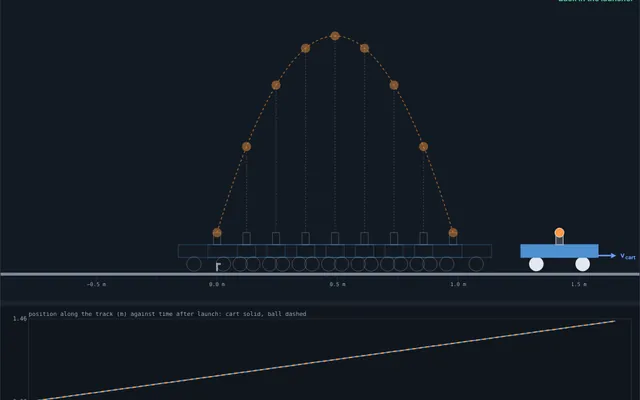
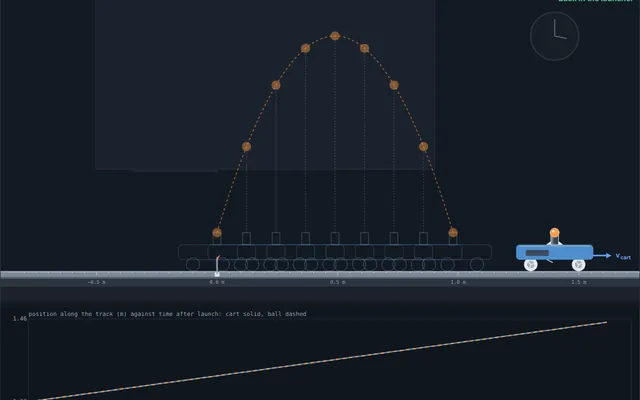
Cart launch: scenery pass (lab bench, track details, cart and ball shading)
Claude-Session: https://claude.ai/code/session_01Ed2BcirBdsGia7rutWh1uF

Changed region(s): [[0.0, 0.57, 1.0, 0.72]]

diff --git a/demos/cart-launch.html b/demos/cart-launch.html
@@ -60,9 +60,9 @@ body { margin: 0; }
   --field: #dfe6ef; --equi: #e2b350; --accent: #69a0ff; --on-charge: #0d1218; color-scheme: dark;
 }
 
-:root { --cart: #2f6fb0; --cartTop: #d7dee7; --ball: #e07a1f; --track: #8a95a3; --wall: #eef2f6; --floor: #d9dfe6; --vx: #2b60b5; --vy: #1f8a5b; --v: #7b3fb8; --g: #c23f2c; }
-@media (prefers-color-scheme: dark) { :root:not([data-theme="light"]) { --cart: #4f8fd0; --cartTop: #3a4554; --ball: #ff9a40; --track: #7d8898; --wall: #131a23; --floor: #1b232e; --vx: #69a0ff; --vy: #4cc98e; --v: #b98af0; --g: #ff7660; } }
-:root[data-theme="dark"] { --cart: #4f8fd0; --cartTop: #3a4554; --ball: #ff9a40; --track: #7d8898; --wall: #131a23; --floor: #1b232e; --vx: #69a0ff; --vy: #4cc98e; --v: #b98af0; --g: #ff7660; }
+:root { --cart: #2f6fb0; --cartTop: #d7dee7; --ball: #e07a1f; --track: #8a95a3; --trackHi: #c9d0d8; --bench: #4a525c; --benchDark: #2f353d; --board: #f6f8fa; --boardFrame: #c3cbd4; --wall: #eef2f6; --floor: #d9dfe6; --vx: #2b60b5; --vy: #1f8a5b; --v: #7b3fb8; --g: #c23f2c; }
+@media (prefers-color-scheme: dark) { :root:not([data-theme="light"]) { --cart: #4f8fd0; --cartTop: #3a4554; --ball: #ff9a40; --track: #7d8898; --trackHi: #a3adba; --bench: #2c343e; --benchDark: #1c222a; --board: #171e28; --boardFrame: #2c3644; --wall: #131a23; --floor: #1b232e; --vx: #69a0ff; --vy: #4cc98e; --v: #b98af0; --g: #ff7660; } }
+:root[data-theme="dark"] { --cart: #4f8fd0; --cartTop: #3a4554; --ball: #ff9a40; --track: #7d8898; --trackHi: #a3adba; --bench: #2c343e; --benchDark: #1c222a; --board: #171e28; --boardFrame: #2c3644; --wall: #131a23; --floor: #1b232e; --vx: #69a0ff; --vy: #4cc98e; --v: #b98af0; --g: #ff7660; }
 :root[data-projector="on"] { font-size: 125%; }
 html, body { height: 100%; }
 body { background: var(--bg); color: var(--ink); font-family: var(--font-ui); font-size: 15px; line-height: 1.45; }
@@ -269,7 +269,7 @@ table.rows button { font: inherit; background: none; border: 0; color: var(--mut
   let W = 0, Hh = 0, dpr = 1, T = null;
   function tokens() { const cs = getComputedStyle(document.documentElement), g = (n) => cs.getPropertyValue(n).trim();
     T = { canvas: g('--canvas'), ink: g('--ink'), muted: g('--muted'), line: g('--line'), grid: g('--grid'), gridStrong: g('--grid-strong'), accent: g('--accent'),
-      cart: g('--cart'), cartTop: g('--cartTop'), ball: g('--ball'), track: g('--track'), wall: g('--wall'), floor: g('--floor'), vx: g('--vx'), vy: g('--vy'), v: g('--v'), g: g('--g'),
+      cart: g('--cart'), cartTop: g('--cartTop'), ball: g('--ball'), track: g('--track'), trackHi: g('--trackHi'), bench: g('--bench'), benchDark: g('--benchDark'), board: g('--board'), boardFrame: g('--boardFrame'), wall: g('--wall'), floor: g('--floor'), vx: g('--vx'), vy: g('--vy'), v: g('--v'), g: g('--g'),
       mono: g('--font-mono') || 'monospace', ui: g('--font-ui') || 'sans-serif' }; }
   const ps = () => (document.documentElement.getAttribute('data-projector') === 'on' ? 1.3 : 1);
   const f = (v, d = 2) => (!isFinite(v) ? '—' : (Math.abs(v) < 0.5 * 10 ** -d ? 0 : v).toFixed(d).replace('-', '−'));
@@ -370,25 +370,68 @@ table.rows button { font: inherit; background: none; border: 0; color: var(--mut
     const availW = W - 32 * p, availH = sceneBot - sceneTop, sc = Math.min(availW / bw, availH / bh, 420 * p);
     const X0 = 16 * p + (availW - bw * sc) / 2 - Math.min(...xs) * sc, Y0 = sceneTop + (availH - bh * sc) / 2 + Math.max(...ys) * sc;
     const SX = (s, n) => X0 + wx(s, n) * sc, SY = (s, n) => Y0 - wy(s, n) * sc;
-    // background: wall and floor
-    ctx.fillStyle = T.canvas; ctx.fillRect(0, 0, W, Hh); ctx.fillStyle = T.wall; ctx.fillRect(0, 0, W, sceneBot + 10 * p);
-    const floorY = Math.max(SY(sMin, -MOUTH - 0.05), SY(sMax, -MOUTH - 0.05)) + 30 * p;
-    ctx.fillStyle = T.floor; ctx.fillRect(0, Math.min(floorY, sceneBot + 10 * p), W, sceneBot + 10 * p - Math.min(floorY, sceneBot + 10 * p));
-    // metre marks on the wall (move with the ground, so in the cart view they slide past)
-    ctx.strokeStyle = T.gridStrong; ctx.fillStyle = T.muted; ctx.font = `${9 * p}px ${T.mono}`; ctx.lineWidth = 1; ctx.textAlign = 'center'; ctx.textBaseline = 'top';
-    const step = sc > 160 * p ? 0.25 : 0.5;
-    for (let s = Math.ceil((sMin + (cam ? off : 0)) / step) * step; s <= sMax + (cam ? off : 0) + 1e-9; s += step) {
-      const x = SX(s, -MOUTH - 0.02), y = SY(s, -MOUTH - 0.02);
-      ctx.beginPath(); ctx.moveTo(x, y); ctx.lineTo(x + sn * 8 * p, y + cs * 8 * p); ctx.stroke();
-      if (Math.abs(s / 0.5 - Math.round(s / 0.5)) < 1e-6) ctx.fillText(`${f(s, 1)} m`, x + sn * 18 * p, y + cs * 10 * p);
+    // ---- the room, drawn in ground coordinates so it slides past in the cart view ----
+    // absolute ground coordinates (x right, y up, metres; the launch point's mouth is the origin) to the screen
+    const offX = cam ? off * cs : 0, offY = cam ? -off * sn : 0, GX = (x) => X0 + (x - offX) * sc, GY = (y) => Y0 - (y - offY) * sc;
+    const ax = (s, n) => s * cs + n * sn, ay = (s, n) => -s * sn + n * cs;   // track point (absolute s) to ground x, y
+    const RAIL = 0.025, trA = cartAt(pp, -S.tPre).s - HALF - 0.3, trB = Math.max(cartAt(pp, tEnd()).s, ballAt(pp, tEnd()).s) + HALF + 0.3;
+    const benchY = Math.min(ay(trA, -MOUTH - RAIL), ay(trB, -MOUTH - RAIL)) - (ph > 0 ? 0.03 : 0), floorYm = benchY - 0.9;
+    const bxA = Math.min(ax(trA, -MOUTH), ax(trB, -MOUTH)) - 0.35, bxB = Math.max(ax(trA, -MOUTH), ax(trB, -MOUTH)) + 0.35;
+    ctx.fillStyle = T.canvas; ctx.fillRect(0, 0, W, Hh);
+    ctx.save(); ctx.beginPath(); ctx.rect(0, 0, W, sceneBot + 10 * p); ctx.clip();
+    ctx.fillStyle = T.wall; ctx.fillRect(0, 0, W, sceneBot + 10 * p);
+    // wall panels, a whiteboard behind the bench and a clock
+    const xL = offX + (0 - X0) / sc, xR = offX + (W - X0) / sc;
+    ctx.strokeStyle = T.grid; ctx.lineWidth = 1;
+    for (let x = Math.floor(xL / 1.2) * 1.2; x <= xR; x += 1.2) { ctx.beginPath(); ctx.moveTo(GX(x), 0); ctx.lineTo(GX(x), GY(floorYm)); ctx.stroke(); }
+    // a faint whiteboard and a clock on the wall, repeating every 4.8 m (kept pale so the ball's path stands out)
+    for (let k = Math.floor(xL / 4.8) - 1; k <= Math.ceil(xR / 4.8) + 1; k++) {
+      const x0 = k * 4.8 - 0.5, x1 = x0 + 1.4, y0 = benchY + 0.45, y1 = benchY + 1.25;
+      ctx.globalAlpha = 0.55;
+      ctx.fillStyle = T.boardFrame; ctx.fillRect(GX(x0) - 2 * p, GY(y1) - 2 * p, GX(x1) - GX(x0) + 4 * p, GY(y0) - GY(y1) + 4 * p);
+      ctx.fillStyle = T.board; ctx.fillRect(GX(x0), GY(y1), GX(x1) - GX(x0), GY(y0) - GY(y1));
+      ctx.fillStyle = T.boardFrame; ctx.fillRect(GX(x0 + 0.15), GY(y0) + 2 * p, GX(x0 + 0.5) - GX(x0 + 0.15), 3 * p);
+      ctx.globalAlpha = 1; const cx = x1 + 0.5, cy = benchY + 1.0, cr = 0.1;
+      ctx.fillStyle = T.board; ctx.strokeStyle = T.boardFrame; ctx.lineWidth = 2 * p; ctx.beginPath(); ctx.arc(GX(cx), GY(cy), cr * sc, 0, 7); ctx.fill(); ctx.stroke();
+      ctx.strokeStyle = T.muted; ctx.globalAlpha = 0.7; ctx.lineWidth = 1.4 * p; ctx.beginPath(); ctx.moveTo(GX(cx), GY(cy)); ctx.lineTo(GX(cx), GY(cy + cr * 0.7)); ctx.moveTo(GX(cx), GY(cy)); ctx.lineTo(GX(cx + cr * 0.5), GY(cy - cr * 0.1)); ctx.stroke(); ctx.globalAlpha = 1;
     }
-    // track (in the cart view it extends across the whole window)
-    const ta = (cam ? off : 0) + sMin - 2, tb = (cam ? off : 0) + sMax + 2;
-    ctx.strokeStyle = T.track; ctx.lineWidth = 5 * p; ctx.lineCap = 'butt'; ctx.beginPath(); ctx.moveTo(SX(ta, -MOUTH - 0.012), SY(ta, -MOUTH - 0.012)); ctx.lineTo(SX(tb, -MOUTH - 0.012), SY(tb, -MOUTH - 0.012)); ctx.stroke();
-    // incline stand: a post under the high end
-    if (ph > 0) { const sTop = (cam ? off : 0) + sMin + 0.1, x = SX(sTop, -MOUTH - 0.02), y = SY(sTop, -MOUTH - 0.02); ctx.fillStyle = T.track; ctx.fillRect(x - 3 * p, y, 6 * p, Math.max(0, floorY - y)); ctx.fillStyle = T.muted; ctx.font = `${10 * p}px ${T.ui}`; ctx.textAlign = 'left'; ctx.textBaseline = 'bottom'; ctx.fillText(`incline ${S.phiDeg}°, no friction`, x + 8 * p, Math.min(floorY, sceneBot) - 6 * p); }
-    // the trigger post at s = 0 that fires the launcher
-    { const x = SX(0, -MOUTH), y = SY(0, -MOUTH); ctx.save(); ctx.translate(x, y); ctx.rotate(ph); ctx.fillStyle = T.muted; ctx.fillRect(-1.5 * p, -14 * p, 3 * p, 14 * p); ctx.fillRect(-1.5 * p, -14 * p, 8 * p, 3 * p); ctx.restore(); }
+    // floor and baseboard
+    ctx.fillStyle = T.floor; ctx.fillRect(0, GY(floorYm), W, Math.max(0, sceneBot + 10 * p - GY(floorYm)));
+    ctx.fillStyle = T.gridStrong; ctx.fillRect(0, GY(floorYm) - 4 * p, W, 4 * p);
+    // the lab bench: top slab, apron and legs
+    const slab = 0.04;
+    ctx.fillStyle = T.benchDark; for (const lx of [bxA + 0.08, bxB - 0.12]) ctx.fillRect(GX(lx), GY(benchY - slab), 0.04 * sc, GY(floorYm) - GY(benchY - slab));
+    ctx.fillStyle = T.benchDark; ctx.fillRect(GX(bxA + 0.04), GY(benchY - slab), GX(bxB - 0.04) - GX(bxA + 0.04), 0.06 * sc);
+    ctx.fillStyle = T.bench; ctx.fillRect(GX(bxA), GY(benchY), GX(bxB) - GX(bxA), slab * sc);
+    ctx.fillStyle = T.trackHi; ctx.globalAlpha = 0.35; ctx.fillRect(GX(bxA), GY(benchY), GX(bxB) - GX(bxA), Math.max(1, 0.006 * sc)); ctx.globalAlpha = 1;
+    // supports: on the level the track sits on two low feet; on the incline the high end stands on a rod with a clamp
+    ctx.fillStyle = T.track;
+    for (const sF of [trA + 0.12, trB - 0.12]) { const x = ax(sF, -MOUTH - RAIL), y = ay(sF, -MOUTH - RAIL); ctx.fillRect(GX(x) - 3 * p, GY(y), 6 * p, Math.max(2 * p, GY(benchY) - GY(y))); }
+    if (ph > 0) {
+      const xh = ax(trA + 0.12, -MOUTH - RAIL), yh = ay(trA + 0.12, -MOUTH - RAIL);
+      ctx.fillStyle = T.benchDark; ctx.fillRect(GX(xh) - 14 * p, GY(benchY) - 5 * p, 28 * p, 5 * p);   // stand base
+      ctx.fillStyle = T.ink; ctx.fillRect(GX(xh) - 6 * p, GY(yh) - 2 * p, 12 * p, 7 * p);              // clamp
+      ctx.fillStyle = T.muted; ctx.font = `${10 * p}px ${T.ui}`; ctx.textAlign = 'left'; ctx.textBaseline = 'bottom';
+      ctx.fillText(`incline ${S.phiDeg}°, no friction`, GX(xh) + 18 * p, Math.min(GY(benchY) - 8 * p, sceneBot));
+    }
+    // the track: aluminium beam with a printed scale on its side, rubber end stops
+    const tp = (sv, n) => [SX(sv, n), SY(sv, n)];
+    const quad = (a, b, n0, n1, col) => { ctx.fillStyle = col; ctx.beginPath(); for (const [sv, n] of [[a, n0], [b, n0], [b, n1], [a, n1]]) { const [x, y] = tp(sv, n); ctx.lineTo(x, y); } ctx.closePath(); ctx.fill(); };
+    quad(trA, trB, -MOUTH, -MOUTH - RAIL, T.track);
+    quad(trA, trB, -MOUTH, -MOUTH - Math.max(0.005, 1.5 * p / sc), T.trackHi);
+    for (const [a, b] of [[trA - 0.03, trA], [trB, trB + 0.03]]) quad(a, b, -MOUTH + 0.035, -MOUTH - RAIL, T.ink);
+    ctx.strokeStyle = T.ink; ctx.fillStyle = T.ink; ctx.lineWidth = 1; ctx.font = `${8.5 * p}px ${T.mono}`; ctx.textAlign = 'center'; ctx.textBaseline = 'middle';
+    const tick = sc > 300 * p ? 0.05 : 0.1;
+    for (let k = Math.ceil(trA / tick); k * tick <= trB; k++) {
+      const sv = k * tick, big = Math.abs(sv / 0.5 - Math.round(sv / 0.5)) < 1e-6, [x0, y0] = tp(sv, -MOUTH - 0.004), [x1, y1] = tp(sv, -MOUTH - (big ? 0.016 : 0.009));
+      ctx.globalAlpha = 0.7; ctx.beginPath(); ctx.moveTo(x0, y0); ctx.lineTo(x1, y1); ctx.stroke(); ctx.globalAlpha = 1;
+      if (big) { const [xl, yl] = tp(sv, -MOUTH - RAIL - 0.012); ctx.save(); ctx.translate(xl + sn * 4 * p, yl + cs * 4 * p); ctx.rotate(ph); ctx.fillStyle = T.muted; ctx.fillText(`${f(sv, 1)} m`, 0, 0); ctx.restore(); }
+    }
+    // the trigger: a rod clamped to the track at s = 0 with a flag the cart's lever hits
+    { const [x, y] = tp(0, -MOUTH - RAIL / 2); ctx.save(); ctx.translate(x, y); ctx.rotate(ph);
+      ctx.fillStyle = T.ink; ctx.fillRect(-4 * p, -3 * p, 8 * p, 7 * p); ctx.fillStyle = T.muted; const hR = 0.07 * sc; ctx.fillRect(-1.2 * p, -hR, 2.4 * p, hR);
+      const fired = t >= 0; ctx.fillStyle = T.g; ctx.beginPath(); ctx.moveTo(0, -hR); ctx.lineTo(fired ? 6 * p : -9 * p, -hR + (fired ? -5 * p : 3 * p)); ctx.lineTo(0, -hR + 6 * p); ctx.closePath(); ctx.fill(); ctx.restore(); }
+    ctx.restore();
     // path of the ball (relative to the chosen frame)
     const showP = $('cbP').checked && t > 0, showS = $('cbS').checked && t > 0;
     if (showP) {
@@ -409,9 +452,20 @@ table.rows button { font: inherit; background: none; border: 0; color: var(--mut
       }
     }
     // the cart and the ball now
-    drawCart(SX(cNow.s, -MOUTH), SY(cNow.s, -MOUTH), sc, ph, false);
+    drawCart(SX(cNow.s, -MOUTH), SY(cNow.s, -MOUTH), sc, ph, false, cNow.s);
     const bx = SX(bPos.s, bPos.n), by = SY(bPos.s, bPos.n), br = Math.max(5 * p, 0.019 * sc);
-    ctx.fillStyle = T.ball; ctx.beginPath(); ctx.arc(bx, by, br, 0, 7); ctx.fill(); ctx.strokeStyle = T.ink; ctx.lineWidth = 1; ctx.stroke();
+    if (t > 0 && bNow.free) {   // shadow straight below the ball on the track (light from above the track): it stays on the launcher
+      const [sx0, sy0] = [SX(bPos.s, -MOUTH), SY(bPos.s, -MOUTH)], hgt = Math.max(0, bPos.n + MOUTH), al = Math.max(0.08, 0.35 - 0.25 * hgt);
+      ctx.save(); ctx.translate(sx0, sy0); ctx.rotate(ph); ctx.globalAlpha = al; ctx.fillStyle = T.ink; ctx.beginPath(); ctx.ellipse(0, -1, br * (1 + hgt), br * 0.35, 0, 0, 7); ctx.fill(); ctx.restore();
+    }
+    if (t >= 0 && t < 0.18 && !reduce) {   // a puff at the mouth as the launcher fires
+      const [mx, my] = [SX(cNow.s, 0), SY(cNow.s, 0)], q = t / 0.18; ctx.save(); ctx.translate(mx, my); ctx.rotate(ph); ctx.globalAlpha = 1 - q; ctx.strokeStyle = T.muted; ctx.lineWidth = 1.5 * p;
+      for (const a of [-0.9, -0.45, 0.45, 0.9]) { ctx.beginPath(); ctx.moveTo(Math.sin(a) * (6 + 10 * q) * p, -Math.cos(a) * (6 + 10 * q) * p); ctx.lineTo(Math.sin(a) * (12 + 14 * q) * p, -Math.cos(a) * (12 + 14 * q) * p); ctx.stroke(); }
+      ctx.restore();
+    }
+    const grd = ctx.createRadialGradient(bx - br * 0.35, by - br * 0.35, br * 0.1, bx, by, br);
+    grd.addColorStop(0, '#fff3e0'); grd.addColorStop(0.35, T.ball); grd.addColorStop(1, T.ball);
+    ctx.fillStyle = grd; ctx.beginPath(); ctx.arc(bx, by, br, 0, 7); ctx.fill(); ctx.strokeStyle = T.ink; ctx.globalAlpha = 0.6; ctx.lineWidth = 1; ctx.stroke(); ctx.globalAlpha = 1;
     // vectors (screen px per m/s and per m/s²); in the cart view velocities are relative to the cart
     const kv = 26 * p, ka = 6 * p, dirS = [cs, sn], dirN = [sn, -cs];   // screen directions of +s and +n
     const vec = (x, y, a, b, col, lab, o) => arrow(x, y, (a * dirS[0] + b * dirN[0]), (a * dirS[1] + b * dirN[1]), col, lab, o);
@@ -437,20 +491,36 @@ table.rows button { font: inherit; background: none; border: 0; color: var(--mut
     if (t > 0 && !hidden() && t >= L.t) { ctx.fillStyle = L.kind === 'caught' ? T.vy : T.g; ctx.font = `700 ${13 * p}px ${T.ui}`; ctx.fillText(L.kind === 'caught' ? 'Back in the launcher' : L.kind === 'cart' ? 'Missed the launcher' : 'Missed the cart', capX, capY + 16 * p); }
     plot(48 * p, sceneBot + 32 * p, W - 64 * p, plotH - 40 * p);
   }
-  // cart drawn at track point (x, y) on the screen: body, wheels, launcher tube; sc is px per metre
-  function drawCart(x, y, sc, ph, ghost) {
+  // cart drawn at track point (x, y) on the screen: body, wheels that turn as it rolls, a launcher tube on a bracket, and the trip lever;
+  // sc is px per metre, pos the cart's position (for the wheel angle)
+  function drawCart(x, y, sc, ph, ghost, pos = 0) {
     const p = ps(); ctx.save(); ctx.translate(x, y); ctx.rotate(ph);
-    const m = (v) => v * sc, hl = m(HALF), body = m(-TOPN) , wheelR = Math.max(3 * p, m(0.03));
-    // wheels sit on the track (y = 0 here, up is negative)
-    ctx.fillStyle = ghost ? 'transparent' : T.ink; ctx.strokeStyle = T.ink; ctx.lineWidth = 1;
-    for (const wxp of [-hl * 0.6, hl * 0.6]) { ctx.beginPath(); ctx.arc(wxp, -wheelR, wheelR, 0, 7); ghost ? ctx.stroke() : ctx.fill(); }
-    const yb = -m(MOUTH + TOPN);   // top of the cart body
-    ctx.fillStyle = ghost ? 'transparent' : T.cart; ctx.strokeStyle = T.cart; ctx.lineWidth = 1.4 * p;
-    ctx.beginPath(); ctx.rect(-hl, yb, 2 * hl, -yb - 2 * wheelR + 1); ghost ? ctx.stroke() : (ctx.fill(), ctx.stroke());
-    // launcher tube from the body top to the mouth (y = -MOUTH*sc)
-    const tw = Math.max(5 * p, m(0.03)), ym = -m(MOUTH);
-    ctx.fillStyle = ghost ? 'transparent' : T.cartTop; ctx.strokeStyle = T.ink; ctx.lineWidth = 1;
-    ctx.beginPath(); ctx.rect(-tw / 2, ym, tw, yb - ym); ghost ? ctx.stroke() : (ctx.fill(), ctx.stroke());
+    const m = (v) => v * sc, hl = m(HALF), wr = Math.max(3.5 * p, m(0.028)), yb = -m(MOUTH + TOPN), yBot = -2 * wr + Math.max(1, m(0.008));
+    const tw = Math.max(6 * p, m(0.032)), ym = -m(MOUTH), rr = Math.min(6 * p, (yBot - yb) * 0.3);
+    const rrect = (x0, y0, w, h, r) => { ctx.beginPath(); ctx.moveTo(x0 + r, y0); ctx.arcTo(x0 + w, y0, x0 + w, y0 + h, r); ctx.arcTo(x0 + w, y0 + h, x0, y0 + h, r); ctx.arcTo(x0, y0 + h, x0, y0, r); ctx.arcTo(x0, y0, x0 + w, y0, r); ctx.closePath(); };
+    if (ghost) {
+      ctx.strokeStyle = T.cart; ctx.lineWidth = 1.2 * p; rrect(-hl, yb, 2 * hl, yBot - yb, rr); ctx.stroke();
+      ctx.strokeStyle = T.ink; ctx.lineWidth = 1; for (const wx of [-hl * 0.62, hl * 0.62]) { ctx.beginPath(); ctx.arc(wx, -wr, wr, 0, 7); ctx.stroke(); }
+      ctx.strokeRect(-tw / 2, ym, tw, yb - ym); ctx.restore(); return;
+    }
+    // wheels with hubs and spokes; angle = distance / radius (true radius 0.028 m)
+    for (const wx of [-hl * 0.62, hl * 0.62]) {
+      ctx.fillStyle = T.ink; ctx.beginPath(); ctx.arc(wx, -wr, wr, 0, 7); ctx.fill();
+      ctx.fillStyle = T.trackHi; ctx.beginPath(); ctx.arc(wx, -wr, wr * 0.55, 0, 7); ctx.fill();
+      ctx.strokeStyle = T.ink; ctx.lineWidth = Math.max(1, wr * 0.15); const a0 = pos / 0.028;
+      for (let k = 0; k < 3; k++) { const a = a0 + k * 2.094; ctx.beginPath(); ctx.moveTo(wx, -wr); ctx.lineTo(wx + Math.cos(a) * wr * 0.55, -wr + Math.sin(a) * wr * 0.55); ctx.stroke(); }
+    }
+    // body: rounded, with a lighter top edge and a label plate
+    ctx.fillStyle = T.cart; rrect(-hl, yb, 2 * hl, yBot - yb, rr); ctx.fill();
+    ctx.fillStyle = T.trackHi; ctx.globalAlpha = 0.45; ctx.fillRect(-hl + rr, yb + 1, 2 * hl - 2 * rr, Math.max(1.5, (yBot - yb) * 0.12)); ctx.globalAlpha = 1;
+    ctx.fillStyle = T.cartTop; ctx.globalAlpha = 0.9; rrect(-hl * 0.75, yb + (yBot - yb) * 0.35, hl * 0.6, (yBot - yb) * 0.4, 2); ctx.fill(); ctx.globalAlpha = 1;
+    // trip lever under the body at the back, which meets the trigger flag
+    ctx.strokeStyle = T.ink; ctx.lineWidth = 1.5 * p; ctx.beginPath(); ctx.moveTo(-hl * 0.2, yBot); ctx.lineTo(-hl * 0.05, yBot + Math.max(3 * p, m(0.012))); ctx.stroke();
+    // launcher: bracket, tube and darker rim at the mouth
+    ctx.fillStyle = T.ink; ctx.beginPath(); ctx.moveTo(-tw * 1.1, yb); ctx.lineTo(tw * 1.1, yb); ctx.lineTo(tw * 0.6, yb - Math.max(3 * p, m(0.012))); ctx.lineTo(-tw * 0.6, yb - Math.max(3 * p, m(0.012))); ctx.closePath(); ctx.fill();
+    ctx.fillStyle = T.cartTop; ctx.fillRect(-tw / 2, ym, tw, yb - ym); ctx.strokeStyle = T.ink; ctx.lineWidth = 1; ctx.strokeRect(-tw / 2, ym, tw, yb - ym);
+    ctx.fillStyle = T.trackHi; ctx.globalAlpha = 0.6; ctx.fillRect(-tw / 2 + 1, ym + 1, tw * 0.25, yb - ym - 2); ctx.globalAlpha = 1;
+    ctx.fillStyle = T.ink; ctx.fillRect(-tw / 2 - 1.5 * p, ym - 1.5 * p, tw + 3 * p, 3 * p);
     ctx.restore();
   }
   function plot(x0, y0, w, h) {

diff --git a/COLLABORATION.md b/COLLABORATION.md
@@ -439,3 +439,7 @@ Current state: 51 handouts, 1016 expressions, 0 problems.
 ## Claude, 2026-10-23 09:30: Ball Launched from a Moving Cart (new Physics I lecture demo)
 
 `demos/cart-launch.html`, Vol 1 §4.3 and §4.5 (Steve's request). A cart on a track fires a ball perpendicular to the track at a trigger post. Setups: **Steady cart** (lands in the launcher), **Cart at rest**, **Cart speeds up** and **Cart brakes** (acceleration from the moment of launch; misses by ½aT²), **Frictionless incline** (lands in the launcher again; T = 2u/(g cos θ)). **Watch from** the ground or the cart; velocity vectors with components, acceleration vectors (relative to the cart in the cart view), strobe images every eighth of the flight, path, and a position against time graph. Blind pauses at the top of the flight. Defaults 1.2 m/s and 4.0 m/s: T = 0.816 s, both move 0.979 m. Notes with Q1–Q5, key in TeacherKeys, 5 test groups in test_cart_launch.cjs, map and catalog entries. Also: the Elevator scenery, lost in this morning's jerk commit, is restored.
+
+## Claude, 2026-10-23 10:15: cart-launch scenery pass
+
+Lab setting for Ball Launched from a Moving Cart: wall with a pale whiteboard and clock, a lab bench, an aluminium track with a printed scale and end stops, a stand and clamp for the incline, a trigger rod whose flag flips at launch, a cart with turning wheels and a launcher on a bracket, a shaded ball with its shadow on the track and a puff at launch. The room is drawn in ground coordinates, so it slides past in the cart view. Physics, controls and readouts unchanged.
